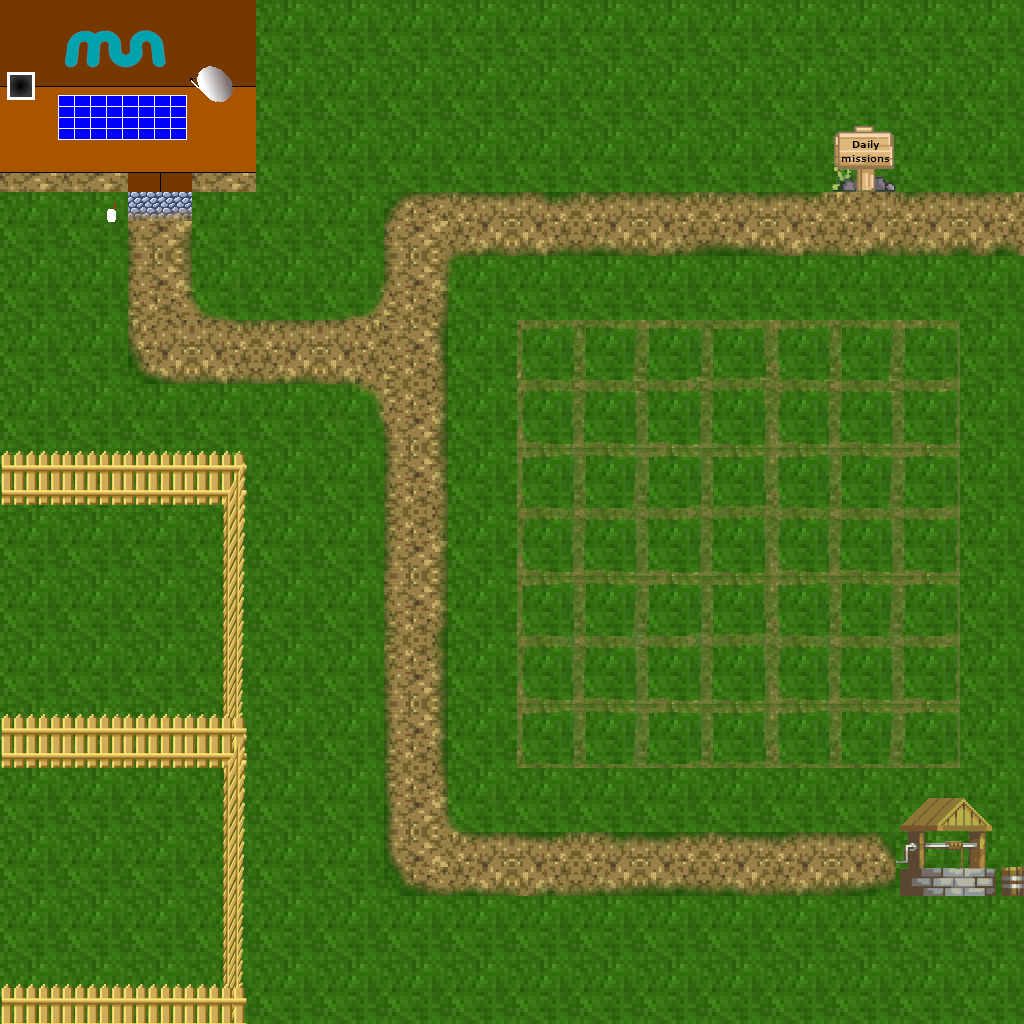
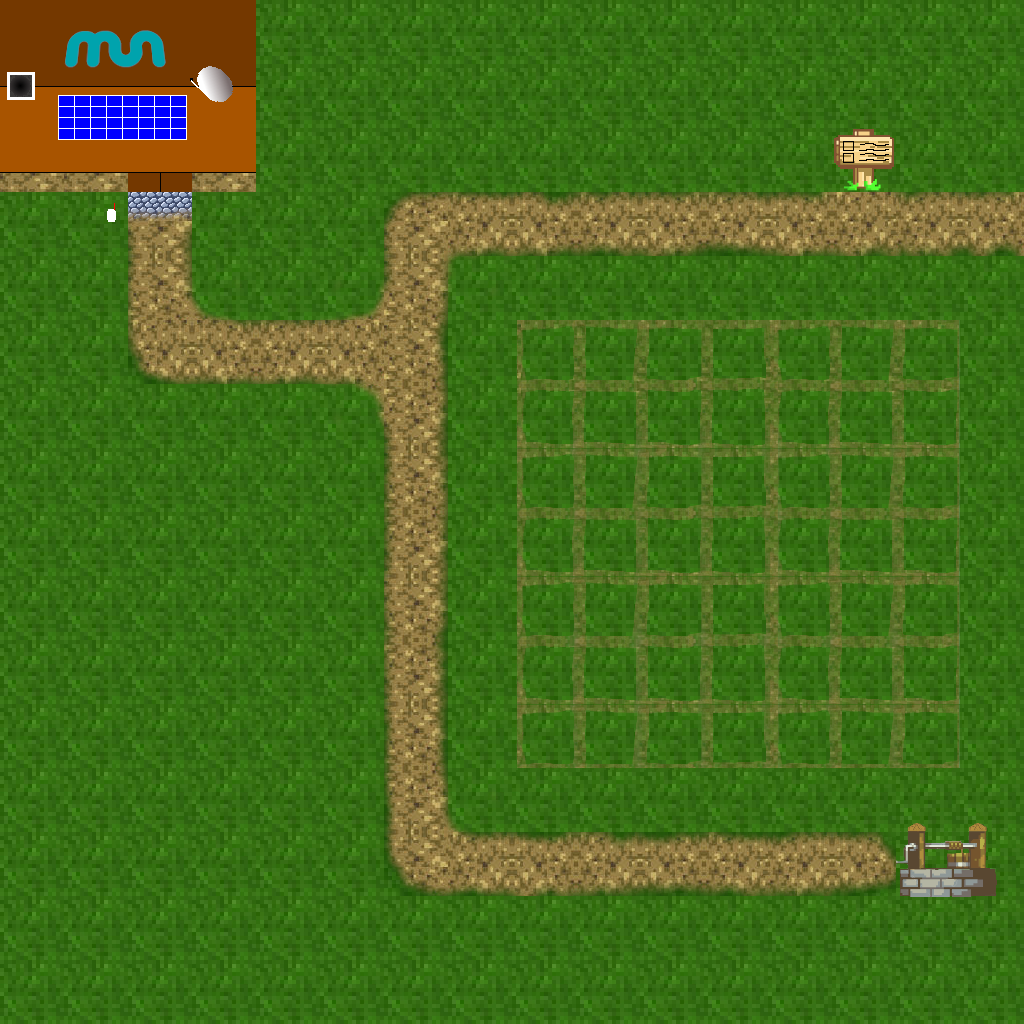
Add files via upload

Changed region(s): [[0.0, 0.4375, 0.25, 1.0], [0.875, 0.7812, 1.0, 0.875], [0.8125, 0.125, 0.875, 0.1875]]

diff --git a/SDLprojektua/Source.c b/SDLprojektua/Source.c
@@ -37,9 +37,17 @@ SDL_Surface* playerSurface = NULL;
 SDL_Surface* screenSurface = NULL;
 SDL_Surface* bgSurface = NULL;
 SDL_Surface* tilesS = NULL;
+SDL_Surface* signSurface = NULL;
+SDL_Surface* fenceSurface = NULL;
+SDL_Surface* cowSurface = NULL;
+SDL_Surface* pigSurface = NULL;
+SDL_Surface* sartuSurface = NULL;
 
 int main(int argc, char* argv[]){
+	
+
 	int zabalik = init();
+
 	if (zabalik) {
 		renderer = SDL_CreateRenderer(win, -1, SDL_RENDERER_ACCELERATED);
 
@@ -58,19 +66,20 @@ int main(int argc, char* argv[]){
 	else {
 		printf("Ezin izan da hasieratu.");
 	}
-
-	int mouseX = 0;
-	int mouseY = 0;
 	while (zabalik) {
 		SDL_Event e;
 		while (SDL_PollEvent(&e) > 0) {
 			zabalik = inputHandler(e);
 		}
-		update(deltaTime);
-		marraztu();
-		marraztu2(camera);
-		SDL_UpdateWindowSurface(win);
-		getDeltaTime();
+		if (player.home == 0) {
+			update(deltaTime);
+			marraztu();
+			marraztu2(camera);
+			SDL_UpdateWindowSurface(win);
+			getDeltaTime();
+		}
+		if (player.home == 1) {
+		}
 	}
 	close();
 	return 0;
@@ -157,13 +166,29 @@ void update(double deltaTime) {
 
 void marraztu() {
 	aplikatuSurface(0, 0, bgSurface, screenSurface, &camera);
-	drawPlayer(camera, playerSurface, screenSurface);
+	if (player.y > 64 - 5) {
+		aplikatuSurface(0, 0, signSurface, screenSurface, &camera);
+		drawPlayer(camera, playerSurface, screenSurface);
+	}
+	else {
+		drawPlayer(camera, playerSurface, screenSurface);
+		aplikatuSurface(0, 0, signSurface, screenSurface, &camera);
+	}
+	
+	aplikatuSurface(0, 0, fenceSurface, screenSurface, &camera);
+	aplikatuSurface(TILE_SIZE, 9*TILE_SIZE, cowSurface, bgSurface, NULL);
+	aplikatuSurface(TILE_SIZE*2, 13*TILE_SIZE, pigSurface, bgSurface, NULL);
 	return;
 }
 
 void loadFiles() {
 	bgSurface = loadMedia("assets/images/bg.png");
+	signSurface = loadMedia("assets/images/sign.png");
+	fenceSurface = loadMedia("assets/images/fence.png");
 	playerSurface = loadMedia("assets/images/player.png");
+	cowSurface = loadMedia("assets/images/cow.png");
+	pigSurface = loadMedia("assets/images/pig.png");
+	sartuSurface = loadMedia("assets/images/sartu.png");
 }
 
 void getDeltaTime() {
@@ -179,7 +204,7 @@ void marraztu2(SDL_Rect camera) {
 	tilesS = SDL_CreateRGBSurface(0, LEVEL_SIZE, LEVEL_SIZE, 32, 0, 0, 0, 0);
 
 	Uint32 color = SDL_MapRGB(tilesS->format, 0, 255, 255);
-		//DrawTiles
+	//DrawTiles
 	for (int i = 0; i < 33; i++) {
 		rect.x = tiles[camino_ID[i]].x * TILE_SIZE;
 		rect.y = tiles[camino_ID[i]].y * TILE_SIZE;
@@ -198,3 +223,35 @@ void marraztu2(SDL_Rect camera) {
 	aplikatuSurface(0, 0, tilesS, screenSurface, &camera);
 	SDL_FreeSurface(tilesS);
 }
+
+//void marraztu(SDL_Renderer* renderer) {
+//	SDL_Rect rect;
+//	//DrawTiles
+//	for (int i = 0; i < 256; i++) {
+//		rect.x = tiles[i].x * TILE_SIZE;
+//		rect.y = tiles[i].y * TILE_SIZE;
+//		rect.w = TILE_SIZE;
+//		rect.h = TILE_SIZE;
+//
+//		if (!tiles[i].farmable) {
+//			SDL_SetRenderDrawColor(renderer, i, 255-i, i-255, 255);
+//		}
+//		else {
+//			SDL_SetRenderDrawColor(renderer, 0, 0, 255, 255);
+//		}
+//		SDL_RenderFillRect(renderer, &rect);
+//	}
+//
+//	drawPlayer(renderer, player, camera);
+//
+//	/*SDL_SetRenderDrawColor(renderer, 255, 255, 255, 255);
+//	for (int x = 0; x < GRID_SIZE * TILE_SIZE; x += TILE_SIZE) {
+//		SDL_RenderDrawLine(renderer, x, 0, x, GRID_SIZE * TILE_SIZE);
+//	}
+//	for (int y = 0; y < GRID_SIZE * TILE_SIZE; y += TILE_SIZE) {
+//		SDL_RenderDrawLine(renderer, 0, y, GRID_SIZE * TILE_SIZE, y);
+//	}*/
+//
+//	SDL_RenderPresent(renderer);
+//	return;
+//}

diff --git a/SDLprojektua/player.c b/SDLprojektua/player.c
@@ -10,11 +10,12 @@ struct Player createPlayer() {
 	player.y = 0;
 	player.w = TILE_SIZE;
 	player.h = 2 * TILE_SIZE;
-	player.speed = 250;
-	player.movingRight = 0;  
+	player.speed = 1;
+	player.movingRight = 0;
 	player.movingLeft = 0;
 	player.movingUp = 0;
 	player.movingDown = 0;
+	player.home = 0;
 	player.facingDirection = DIR_DOWN;
 	return player;
 }
@@ -23,7 +24,7 @@ void movePlayer(double deltaTime) {
 	float multiplier = 1;
 	int bidean = 0, i = 0;
 
-	player.tile = getTileFromPos(player.x, player.y + TILE_SIZE);
+	player.tile = getTileFromPos(player.x + player.w/2, player.y + 2*TILE_SIZE);
 	int x;
 	int y;
 	while (!bidean && i < 33)
@@ -40,27 +41,49 @@ void movePlayer(double deltaTime) {
 	}
 
 	if (player.movingRight) {
-		player.x += player.speed * deltaTime * multiplier;
+		player.x += player.speed;
 		if (player.x > LEVEL_SIZE - player.w) {
 			player.x = LEVEL_SIZE - player.w;
 		}
 	}
 	if (player.movingLeft) {
-		player.x -= player.speed * deltaTime * multiplier;
+		player.x -= player.speed;
 		if (player.x < 0) {
 			player.x = 0;
 		}
+		if (player.y > 6 * 64 - 8 && player.x < 3 * 64 + 32) {
+			player.x = 3 * 64 + 32;
+		}
+		if (player.y < 64 && player.x < 4 * 64) {
+			player.x = 4 * 64;
+
+		}
 	}
 	if (player.movingUp) {
-		player.y -= player.speed * deltaTime * multiplier;
+		player.y -= player.speed;
 		if (player.y < 0) {
 			player.y = 0;
 		}
+		if (player.y + 64 * 2 < 64 * 3 && player.y + 64 * 2 > 64 * 3 - 5 && player.x > 12 * 64 && player.x < 14 * 64) {
+			player.y = 64;
+		}
+		if (player.y < 64 && player.x < 4 * 64) {
+			player.y = 64;
+			if (player.x + 32 > 64 * 2 && player.x + 32 < 64 * 3) {
+				player.home = 1;
+			}
+		}
 	}
 	if (player.movingDown) {
-		player.y += player.speed * deltaTime * multiplier;
+		player.y += player.speed;
 		if (player.y > LEVEL_SIZE - player.h) {
 			player.y = LEVEL_SIZE - player.h;
+		}
+		if (player.y > 6 * 64 - 8 && player.x < 3 * 64 + 32) {
+			player.y = 6 * 64 - 8;
+		}
+		if (player.y + 64 * 2 < 64 * 3 && player.y + 64 * 2 > 64 * 3 - 5 && player.x > 12 * 64 && player.x < 14 * 64) {
+			player.y = 64 - 5;
 		}
 	}
 	return;

diff --git a/SDLprojektua/InputHandler.c b/SDLprojektua/InputHandler.c
@@ -31,6 +31,7 @@ int inputHandler(SDL_Event e) {
 
 void keyHandlerDown(SDL_Event e) {
 	switch (e.key.keysym.scancode) {
+
 	case SDL_SCANCODE_A:
 		player.facingDirection = DIR_LEFT;
 		player.movingLeft = 1;
@@ -52,19 +53,18 @@ void keyHandlerDown(SDL_Event e) {
 }
 
 void keyHandlerUp(SDL_Event e) {
-	int moving;
 	switch (e.key.keysym.scancode) {
-	case SDL_SCANCODE_A:
-		player.movingLeft = 0;
-		break;
-	case SDL_SCANCODE_D:
-		player.movingRight = 0;
-		break;
 	case SDL_SCANCODE_W:
 		player.movingUp = 0;
 		break;
+	case SDL_SCANCODE_A:
+		player.movingLeft = 0;
+		break;
 	case SDL_SCANCODE_S:
 		player.movingDown = 0;
+		break;
+	case SDL_SCANCODE_D:
+		player.movingRight = 0;
 		break;
 	}
 	return;

diff --git a/SDLprojektua/objektuak.h b/SDLprojektua/objektuak.h
@@ -36,6 +36,7 @@ struct Player {
 	int movingLeft;
 	int movingUp;
 	int movingDown;
+	int home;
 	int facingDirection;
 	int facingTile;
 };
